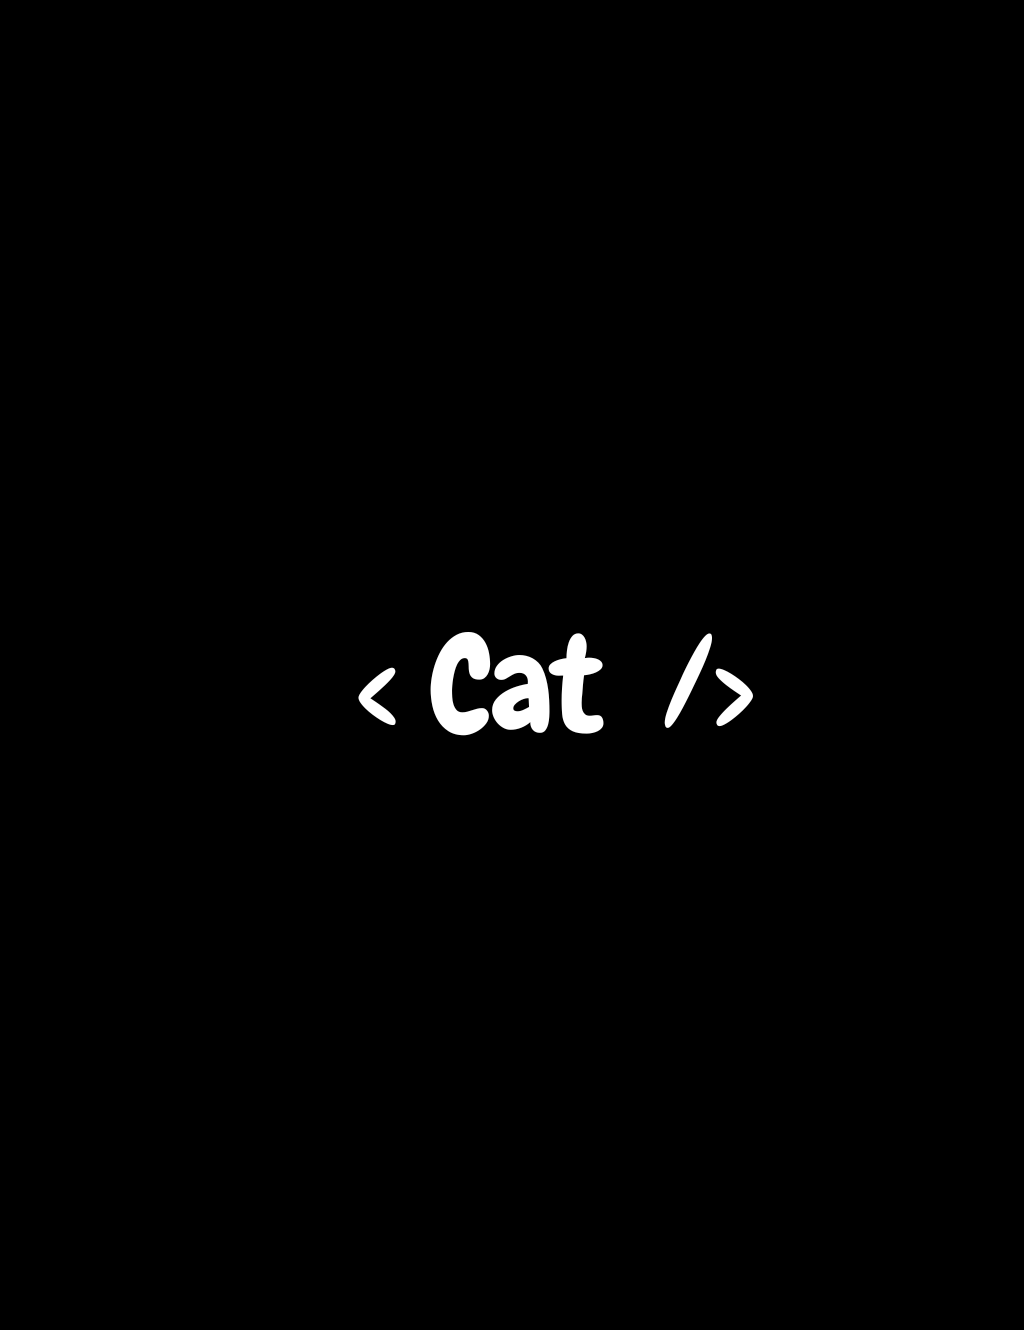
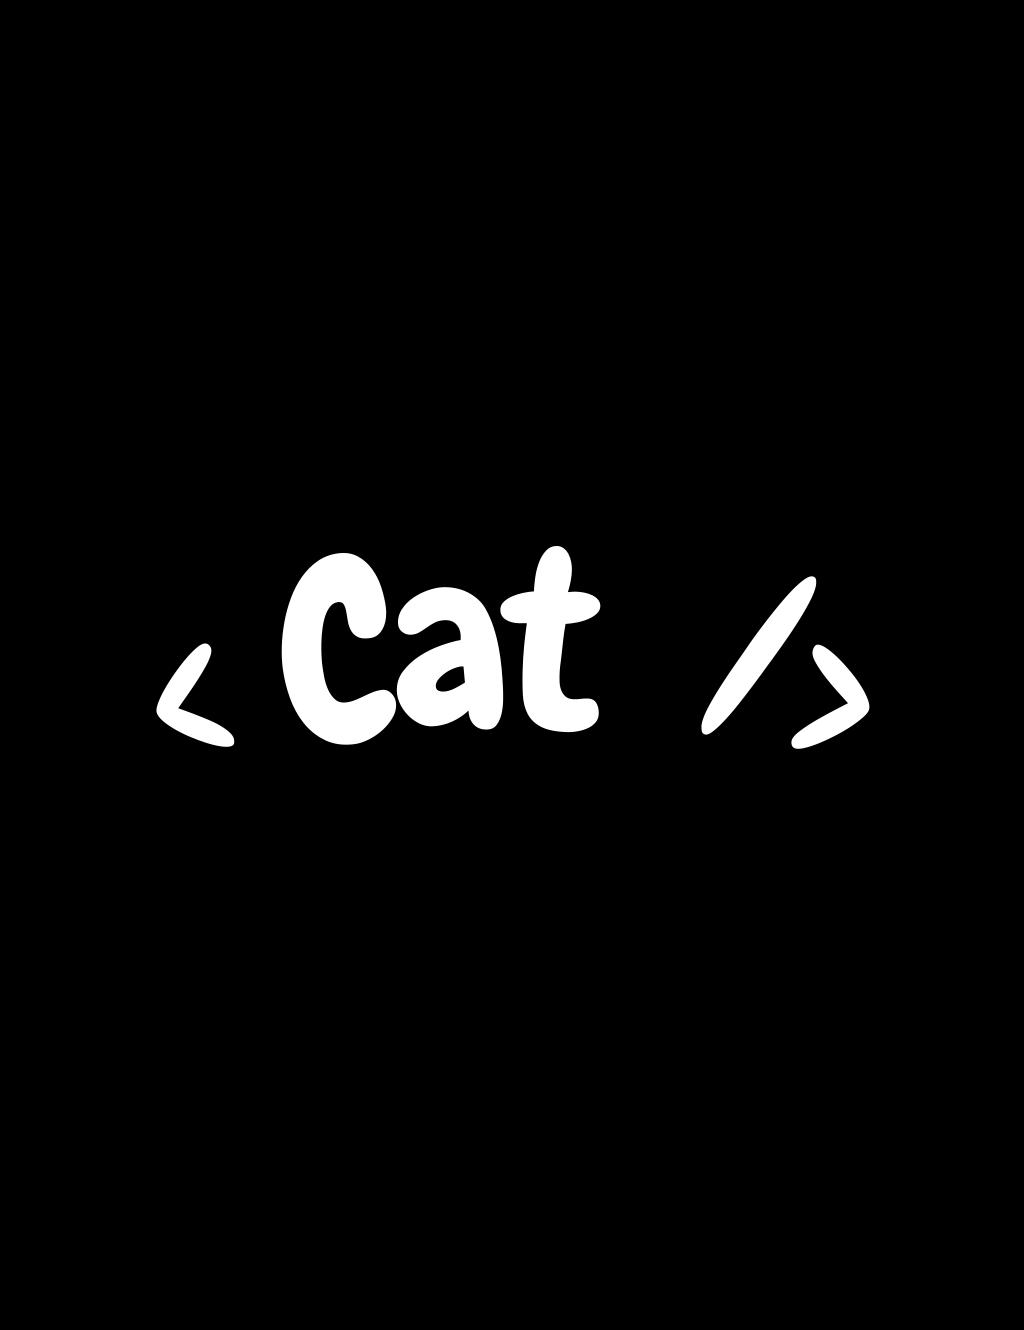
Added new text

Changed region(s): [[0.25, 0.4008, 0.5938, 0.5857], [0.625, 0.4316, 0.8438, 0.5857], [0.1562, 0.4624, 0.2188, 0.5857]]

diff --git a/assets/css/style.css b/assets/css/style.css
@@ -336,11 +336,11 @@ h6 {
 }
 
 .cat {
-  width: 500px;
-  height: 600px;
+  width: 480px;
+  height: 580px;
   margin-top: -200px;
   margin-bottom: -300px;
-  margin-left: 40px;
+  margin-left: 150px;
 }
 
 .cat-paint {
